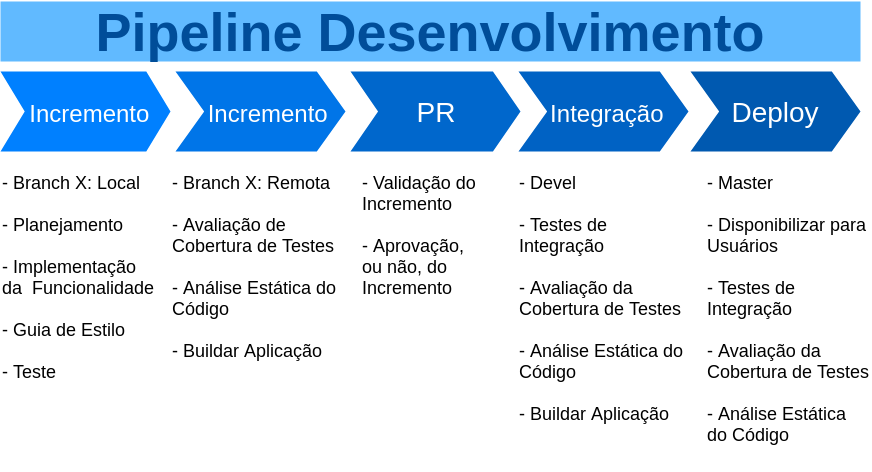
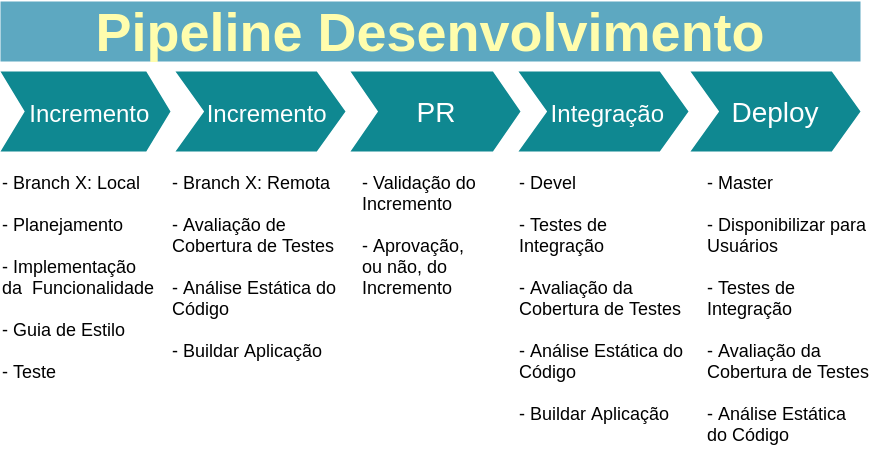
Add visual ID in diagrams

diff --git a/docs/DocumentoDeArquitetura.md b/docs/DocumentoDeArquitetura.md
@@ -15,7 +15,8 @@ title: Documento de Arquitetura
 | 07/09/2018 |   0.3.1  | Tópico: 1.4| Lucas Dutra e Saleh Nazih |
 | 08/09/2018 |   1.0  | Tópicos: 4.2, 2.1, 2.2| Lucas Dutra e Saleh Nazih |
 | 23/09/2018 |   1.1 | Tópicos: 1.1, 1.2, 1.3, 2.2| Ésio Freitas e Lucas Dutra |
-| 24/09/2018 |   1.2 | Tópico: 3, 4.1| Lucas Dutra |
+| 24/09/2018 |   1.2 | Tópicos: 3, 4.1 e 4.2| Lucas Dutra |
+| 25/09/2018 |   1.3 | Tópicos: 1.2, 2, 4.2, 4.5 e 5 | Ésio Gustavo |
 
 
 ## 1. Introdução
@@ -26,7 +27,7 @@ title: Documento de Arquitetura
 
 ### 1.2 Escopo
 
-<p style="text-align:justify">&emsp;&emsp;O Kalkuli será uma aplicação responsável por escanear DANFCE, com o intuito de extrair, tratar e exibir dados de uma maneira simples e intuitiva para o usuário. (O documento terá por objetivo apresentar toda parte arquitetural do projeto, a fim de esclarecer características básicas do sistema).</p>
+<p style="text-align:justify">&emsp;&emsp;O Kalkuli será uma aplicação responsável por escanear DANFCE, com o intuito de extrair, tratar e exibir dados de uma maneira simples e intuitiva para o usuário.</p>
 
 ### 1.3 Definições, Acrônimos e Abreviações
 
@@ -46,15 +47,6 @@ title: Documento de Arquitetura
 >Read Me. Redux. Disponível em: <a hre="https://goo.gl/SgQiKb"><https://goo.gl/SgQiKb></a>. Acesso em: 7 de setembro de 2018 
 
 ## 2. Representação da Arquitetura
-
-### 2.1 Representação arquitetural
-
-![S1](assets/RepresentacaoArquitetural.png "Representação Arquitetural v 0.1")
-
-### 2.2 Diagrama React-Redux
-
-![S2](assets/ReactReduxDiagram.png "Diagrama React-Redux v 0.1")
-
 * **React.js**      
 
 <p style="text-align:justify">&emsp;&emsp;<i>React</i> é uma biblioteca de <i>JavaScript</i> flexível, declarativa e eficiente para construção de interfaces para exibição ao usuário. O <i>React</i> permite a criação desde interfaces complexas até pequenos e isolados pedaços de código chamados “Componentes”.</p> 
@@ -83,6 +75,14 @@ title: Documento de Arquitetura
 </p>
 
 
+### 2.1 Representação arquitetural
+
+![S1](assets/RepresentacaoArquitetural.png "Representação Arquitetural v 0.1")
+
+### 2.2 Diagrama React-Redux
+
+![S2](assets/ReactReduxDiagram.png "Diagrama React-Redux v 0.1")
+
 ## 3. Metas e Restrições de Arquitetura
 
 <p style="text-align:justify">&emsp;&emsp;A aplicação deverá ser suportada pelos navegadores, <i>Mozilla Firefox</i>, <i>Google Chrome</i>, Opera e <i>Microsoft Edge</i>. Toda parte do <i>front-end</i> será construído utilizando <i>React.Js</i>, biblioteca javascript para criar interfaces para o usuário, juntamente com <i>Redux</i>, um contêiner de estado preditivo para aplicações <i>JavaScript</i> . A aplicação também utilizará do <i>microframework</i> <i>Flask</i>, que é construído em <i>python</i> que junto com a biblioteca PyTesseract irão realizar a extração de dados das notas.</p>
@@ -108,7 +108,7 @@ title: Documento de Arquitetura
 ![S4](assets/DiagramadePacotesFlask.png "Diagrama de Pacotes Back-end v 0.1")
 
 ### 4.3 Modelagem de Dados
-![S5](assets/ModelagemDados.png "Modelagem de dados v 0.1")
+![S5](assets/ModelagemdeDados.png "Modelagem de dados v 0.1")
 
 ## 5. Visão de Implantação
 
